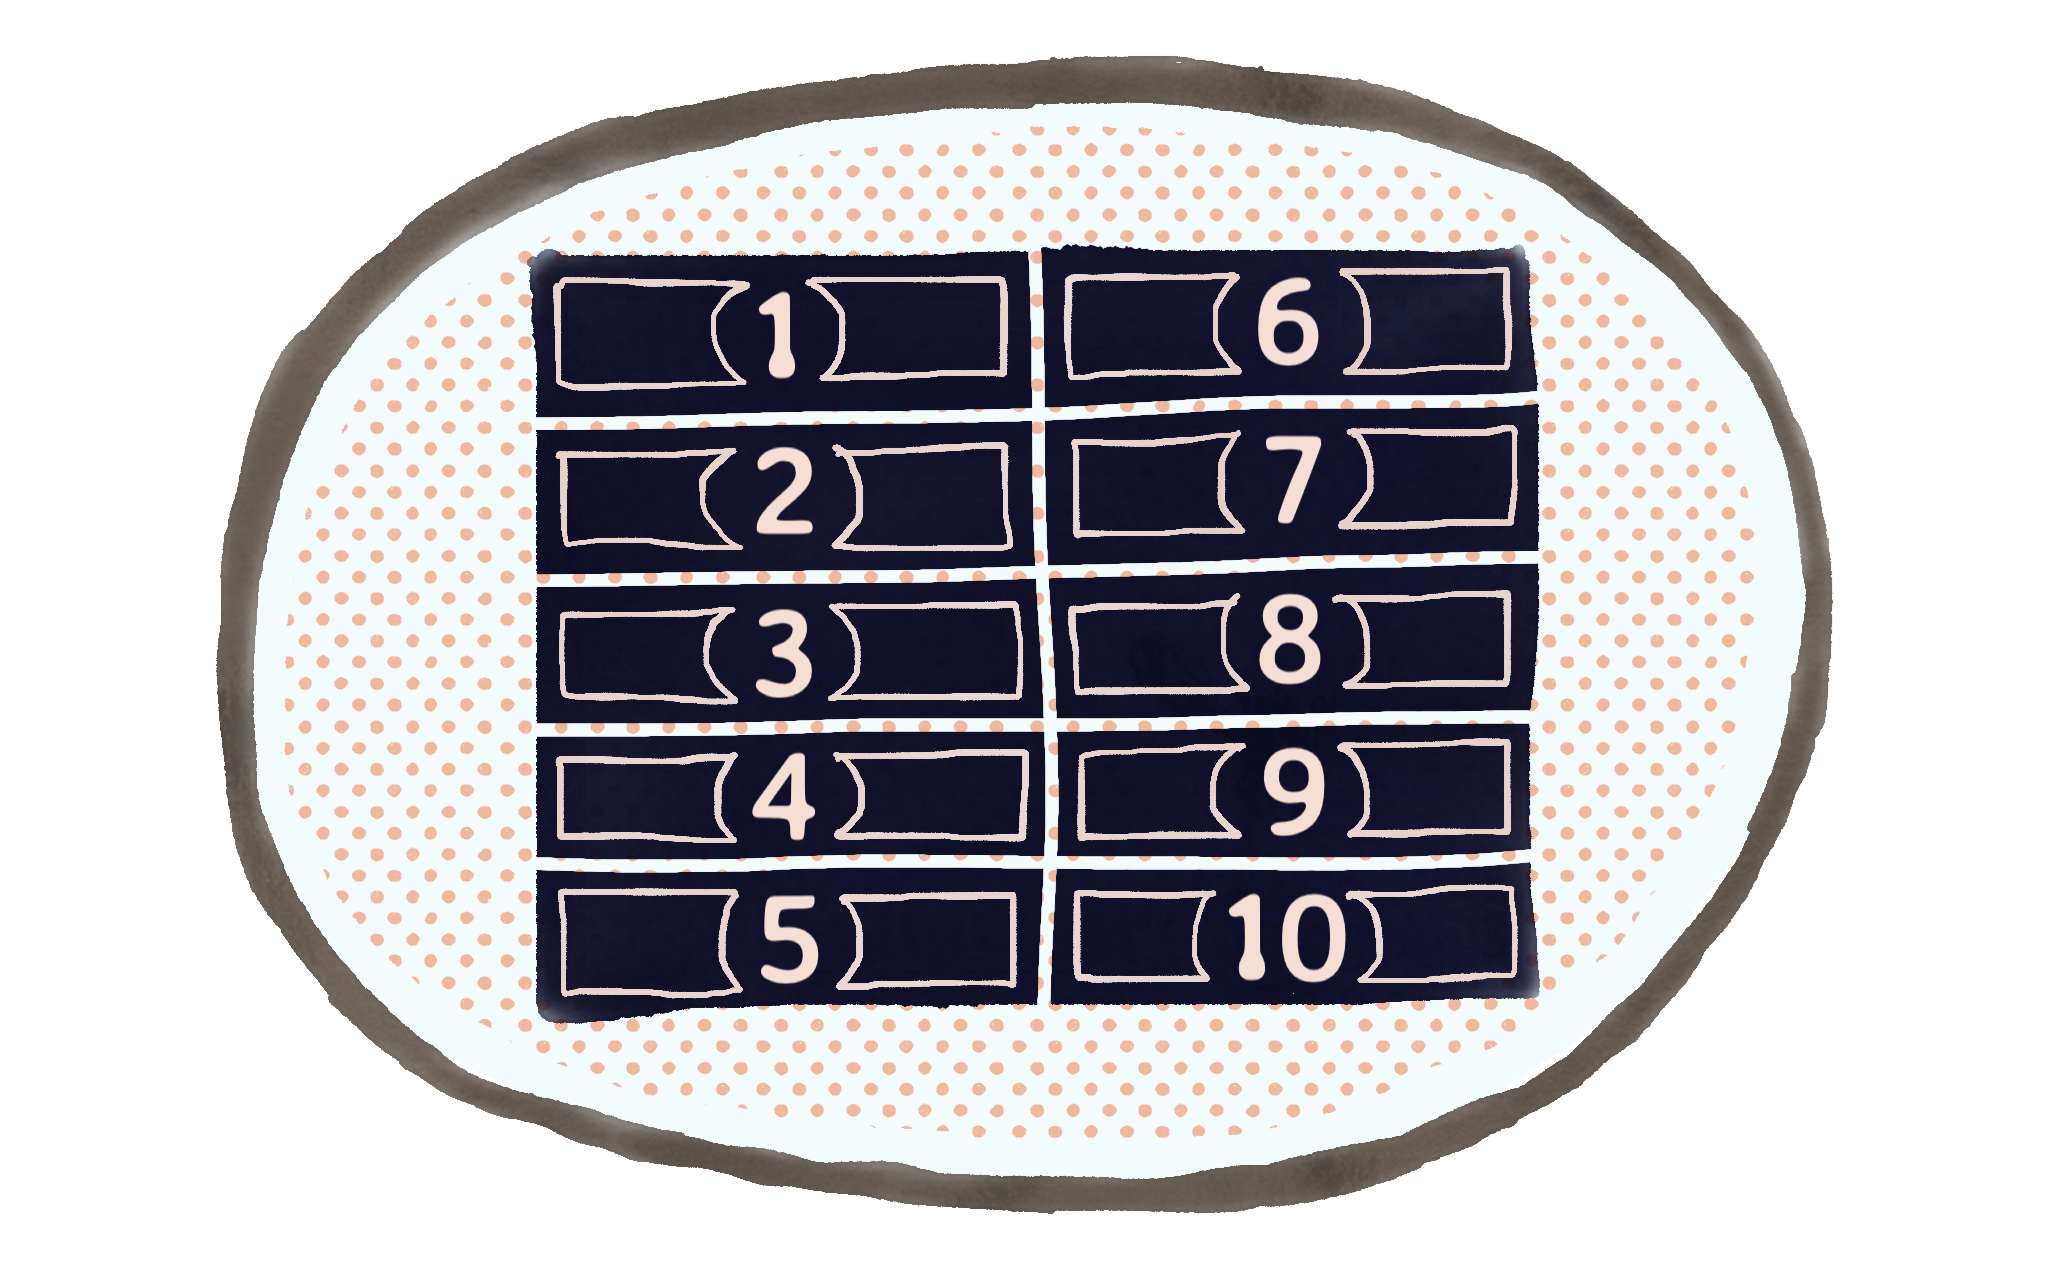
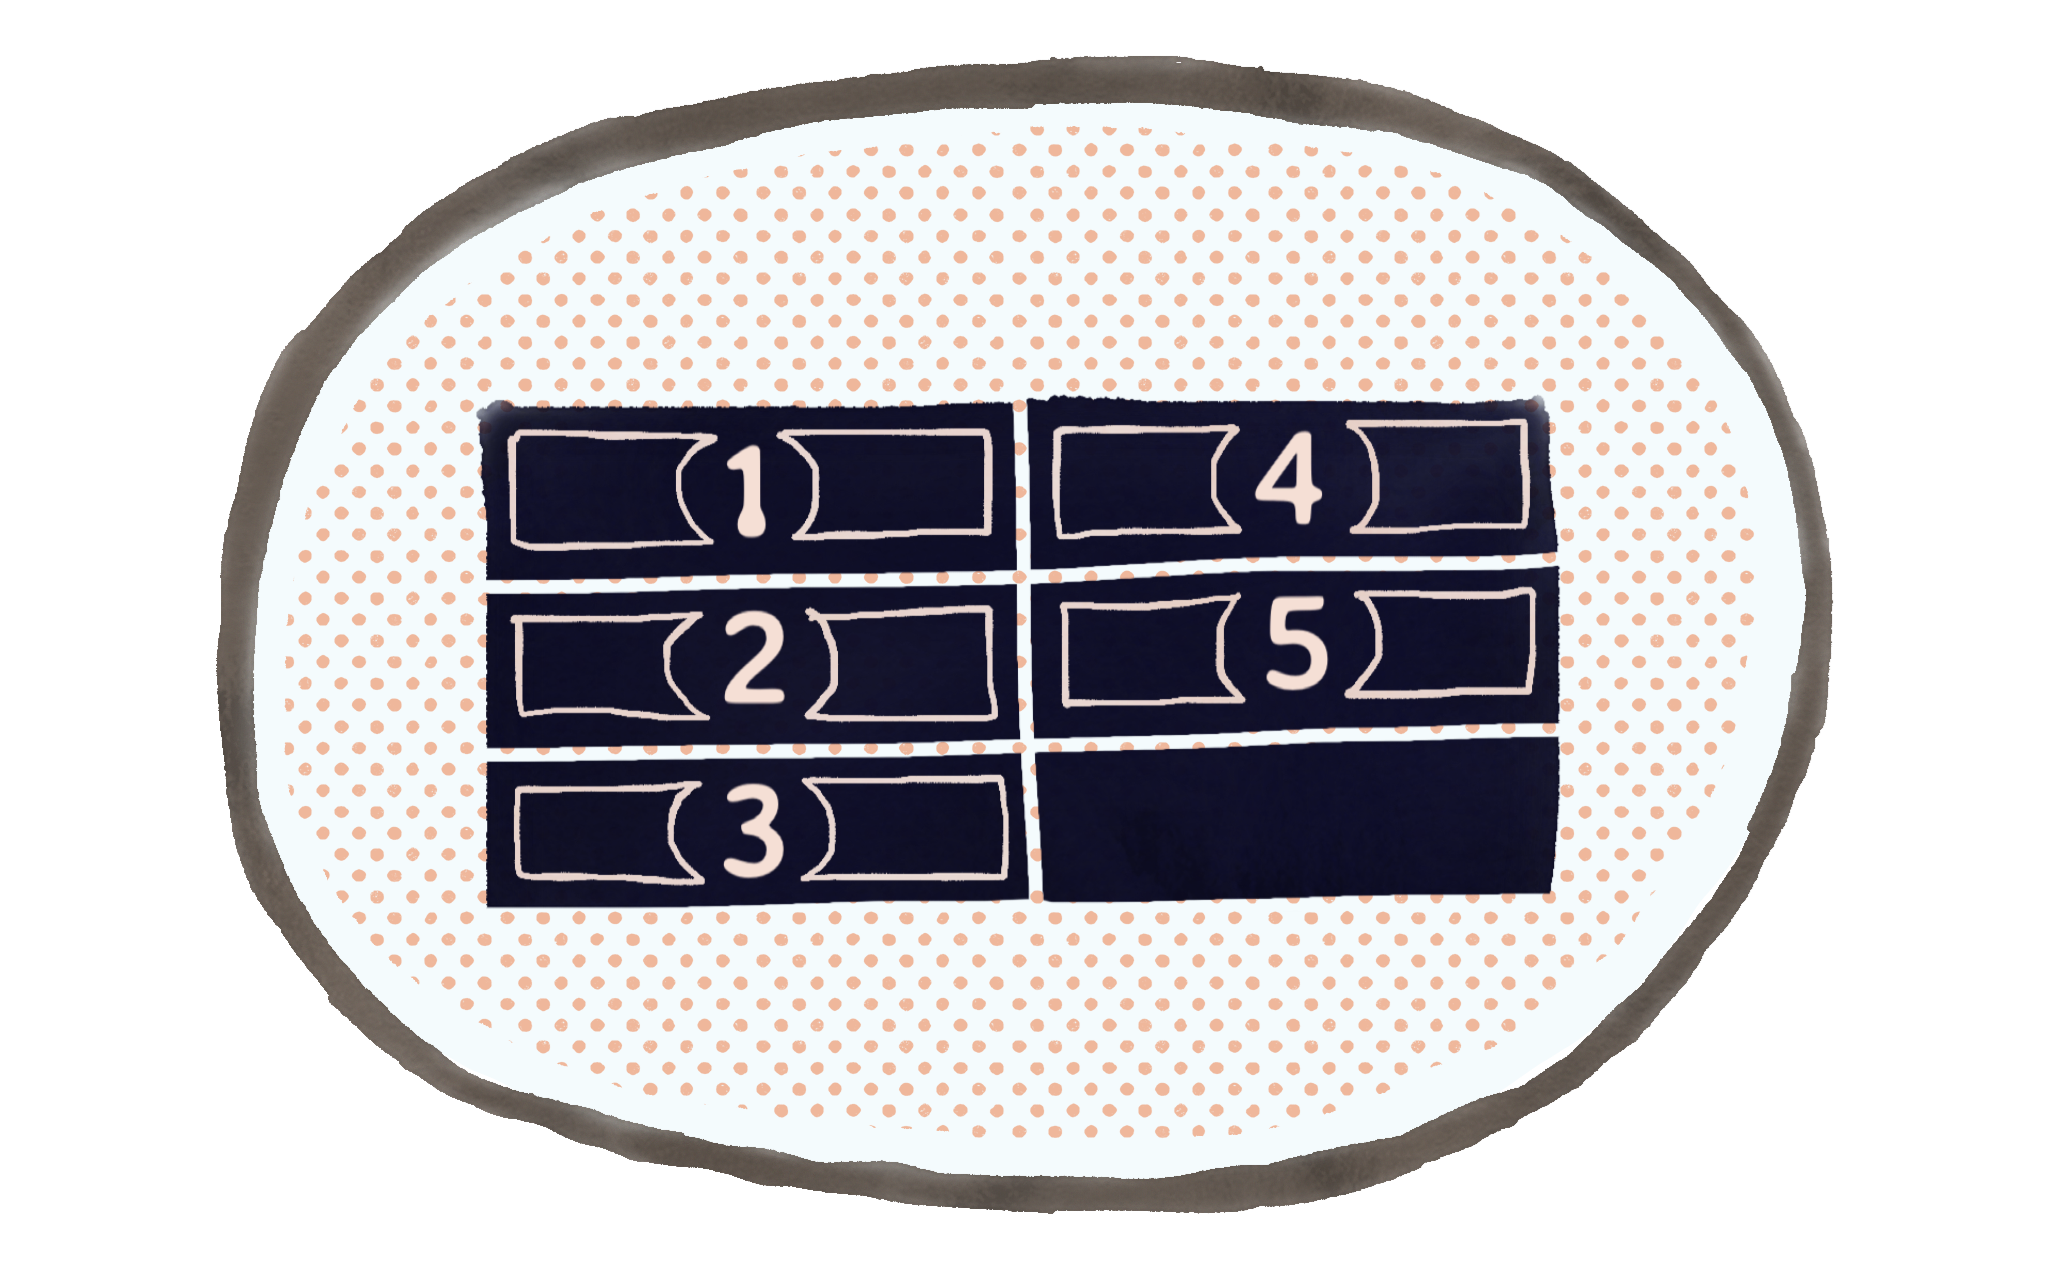
Images 10->5; break up testing samples into incremental

Changed region(s): [[0.2188, 0.1875, 0.7812, 0.8125]]

diff --git a/slides/stitched.md b/slides/stitched.md
@@ -157,7 +157,7 @@ Because I have 5 things to present, I need a clever way to present a list
 
 Footer: false
 
-<!-- .slide: data-background="/images/10-things.jpg" data-background-size="100%" data-background-color="#ffffff" -->
+<!-- .slide: data-background="/images/5-things.jpg" data-background-size="100%" data-background-color="#ffffff" -->
 
 <audio data-autoplay>
   <source data-src="/images/sounds-theme.mp3" type="audio/mpeg">
@@ -965,12 +965,12 @@ time: 21minutes!
 ---
 Footer: false
 
-<!-- .slide: data-background="/images/show-me-4-state-mgmt.jpg" data-background-size="100%" data-background-color="#ffffff" -->
+<!-- .slide: data-background="/images/show-me-2-jsx.jpg" data-background-size="100%" data-background-color="#ffffff" -->
 ---
 
 Footer: false
 
-<!-- .slide: data-background="/images/show-me-5-new-features.jpg" data-background-size="100%" data-background-color="#ffffff" -->
+<!-- .slide: data-background="/images/show-me-3-new-features.jpg" data-background-size="100%" data-background-color="#ffffff" -->
 
 <audio data-autoplay>
   <source data-src="/images/sounds-bing.mp3" type="audio/mpeg">
@@ -1317,12 +1317,12 @@ Notes:
 ---
 Footer: false
 
-<!-- .slide: data-background="/images/show-me-5-new-features.jpg" data-background-size="100%" data-background-color="#ffffff" -->
+<!-- .slide: data-background="/images/show-me-3-new-features.jpg" data-background-size="100%" data-background-color="#ffffff" -->
 ---
 
 Footer: false
 
-<!-- .slide: data-background="/images/show-me-6-dev-ex.jpg" data-background-size="100%" data-background-color="#ffffff" -->
+<!-- .slide: data-background="/images/show-me-4-dev-ex.jpg" data-background-size="100%" data-background-color="#ffffff" -->
 
 <audio data-autoplay>
   <source data-src="/images/sounds-bing.mp3" type="audio/mpeg">
@@ -1448,7 +1448,7 @@ Notes:
 
 Footer: false
 
-<!-- .slide: data-background="/images/show-me-decision-fatigue-strike.jpg" data-background-size="100%" -->
+<!-- .slide: data-background="/images/show-me-decisions-strike.jpg" data-background-size="100%" -->
 
 <audio data-autoplay>
   <source data-src="/images/sounds-buzzer.mp3" type="audio/mpeg">
@@ -1553,12 +1553,12 @@ One more piece of the developer experience is so great that it warrants its own 
 ---
 Footer: false
 
-<!-- .slide: data-background="/images/show-me-6-dev-ex.jpg" data-background-size="100%" data-background-color="#ffffff" -->
+<!-- .slide: data-background="/images/show-me-4-dev-ex.jpg" data-background-size="100%" data-background-color="#ffffff" -->
 ---
 
 Footer: false
 
-<!-- .slide: data-background="/images/show-me-7-testing.jpg" data-background-size="100%" data-background-color="#ffffff" -->
+<!-- .slide: data-background="/images/show-me-5-testing.jpg" data-background-size="100%" data-background-color="#ffffff" -->
 
 <audio data-autoplay>
   <source data-src="/images/sounds-bing.mp3" type="audio/mpeg">
@@ -1702,6 +1702,60 @@ describe('ArtistDetail', () => {
     const context = render(
       <ArtistDetail artist={...} />
     );
+
+
+
+
+
+
+
+  });
+});
+```
+
+Notes:
+
+Great API for
+
+- rendering....
+
+---
+
+Trail: 5. Testing, react-testing-library
+
+```javascript
+describe('ArtistDetail', () => {
+  it('renders something', () => {
+
+    const context = render(
+      <ArtistDetail artist={...} />
+    );
+
+    const button = context.queryByText('Details');
+    fireEvent.click(button);
+
+
+
+
+  });
+});
+```
+
+Notes:
+
+- ...interacting with elements...
+
+---
+
+Trail: 5. Testing, react-testing-library
+
+```javascript
+describe('ArtistDetail', () => {
+  it('renders something', () => {
+
+    const context = render(
+      <ArtistDetail artist={...} />
+    );
 
     const button = context.queryByText('Details');
     fireEvent.click(button);
@@ -1715,10 +1769,6 @@ describe('ArtistDetail', () => {
 
 Notes:
 
-Great API for
-
-- rendering
-- interacting with elements
 - asserting presence of elements
 
 ...
@@ -1729,7 +1779,7 @@ But this is the boss hog of testing in react.
 ---
 Footer: false
 
-<!-- .slide: data-background="/images/show-me-10-create-react-app.jpg" data-background-size="100%" data-background-color="#ffffff" -->
+<!-- .slide: data-background="/images/show-me-5-testing.jpg" data-background-size="100%" data-background-color="#ffffff" -->
 
 Notes:
 

diff --git a/slides/src/09-04-testing.md b/slides/src/09-04-testing.md
@@ -1,12 +1,12 @@
 ---
 Footer: false
 
-<!-- .slide: data-background="/images/show-me-6-dev-ex.jpg" data-background-size="100%" data-background-color="#ffffff" -->
+<!-- .slide: data-background="/images/show-me-4-dev-ex.jpg" data-background-size="100%" data-background-color="#ffffff" -->
 ---
 
 Footer: false
 
-<!-- .slide: data-background="/images/show-me-7-testing.jpg" data-background-size="100%" data-background-color="#ffffff" -->
+<!-- .slide: data-background="/images/show-me-5-testing.jpg" data-background-size="100%" data-background-color="#ffffff" -->
 
 <audio data-autoplay>
   <source data-src="/images/sounds-bing.mp3" type="audio/mpeg">
@@ -150,6 +150,60 @@ describe('ArtistDetail', () => {
     const context = render(
       <ArtistDetail artist={...} />
     );
+
+
+
+
+
+
+
+  });
+});
+```
+
+Notes:
+
+Great API for
+
+- rendering....
+
+---
+
+Trail: 5. Testing, react-testing-library
+
+```javascript
+describe('ArtistDetail', () => {
+  it('renders something', () => {
+
+    const context = render(
+      <ArtistDetail artist={...} />
+    );
+
+    const button = context.queryByText('Details');
+    fireEvent.click(button);
+
+
+
+
+  });
+});
+```
+
+Notes:
+
+- ...interacting with elements...
+
+---
+
+Trail: 5. Testing, react-testing-library
+
+```javascript
+describe('ArtistDetail', () => {
+  it('renders something', () => {
+
+    const context = render(
+      <ArtistDetail artist={...} />
+    );
 
     const button = context.queryByText('Details');
     fireEvent.click(button);
@@ -163,10 +217,6 @@ describe('ArtistDetail', () => {
 
 Notes:
 
-Great API for
-
-- rendering
-- interacting with elements
 - asserting presence of elements
 
 ...

diff --git a/slides/src/08-03-developer-experience.md b/slides/src/08-03-developer-experience.md
@@ -1,12 +1,12 @@
 ---
 Footer: false
 
-<!-- .slide: data-background="/images/show-me-5-new-features.jpg" data-background-size="100%" data-background-color="#ffffff" -->
+<!-- .slide: data-background="/images/show-me-3-new-features.jpg" data-background-size="100%" data-background-color="#ffffff" -->
 ---
 
 Footer: false
 
-<!-- .slide: data-background="/images/show-me-6-dev-ex.jpg" data-background-size="100%" data-background-color="#ffffff" -->
+<!-- .slide: data-background="/images/show-me-4-dev-ex.jpg" data-background-size="100%" data-background-color="#ffffff" -->
 
 <audio data-autoplay>
   <source data-src="/images/sounds-bing.mp3" type="audio/mpeg">
@@ -132,7 +132,7 @@ Notes:
 
 Footer: false
 
-<!-- .slide: data-background="/images/show-me-decision-fatigue-strike.jpg" data-background-size="100%" -->
+<!-- .slide: data-background="/images/show-me-decisions-strike.jpg" data-background-size="100%" -->
 
 <audio data-autoplay>
   <source data-src="/images/sounds-buzzer.mp3" type="audio/mpeg">

diff --git a/slides/src/07-05-new-features.md b/slides/src/07-05-new-features.md
@@ -1,12 +1,12 @@
 ---
 Footer: false
 
-<!-- .slide: data-background="/images/show-me-4-state-mgmt.jpg" data-background-size="100%" data-background-color="#ffffff" -->
+<!-- .slide: data-background="/images/show-me-2-jsx.jpg" data-background-size="100%" data-background-color="#ffffff" -->
 ---
 
 Footer: false
 
-<!-- .slide: data-background="/images/show-me-5-new-features.jpg" data-background-size="100%" data-background-color="#ffffff" -->
+<!-- .slide: data-background="/images/show-me-3-new-features.jpg" data-background-size="100%" data-background-color="#ffffff" -->
 
 <audio data-autoplay>
   <source data-src="/images/sounds-bing.mp3" type="audio/mpeg">

diff --git a/slides/src/01-intro.md b/slides/src/01-intro.md
@@ -143,7 +143,7 @@ Because I have 5 things to present, I need a clever way to present a list
 
 Footer: false
 
-<!-- .slide: data-background="/images/10-things.jpg" data-background-size="100%" data-background-color="#ffffff" -->
+<!-- .slide: data-background="/images/5-things.jpg" data-background-size="100%" data-background-color="#ffffff" -->
 
 <audio data-autoplay>
   <source data-src="/images/sounds-theme.mp3" type="audio/mpeg">

diff --git a/slides/src/13-outro.md b/slides/src/13-outro.md
@@ -1,7 +1,7 @@
 ---
 Footer: false
 
-<!-- .slide: data-background="/images/show-me-10-create-react-app.jpg" data-background-size="100%" data-background-color="#ffffff" -->
+<!-- .slide: data-background="/images/show-me-5-testing.jpg" data-background-size="100%" data-background-color="#ffffff" -->
 
 Notes:
 
